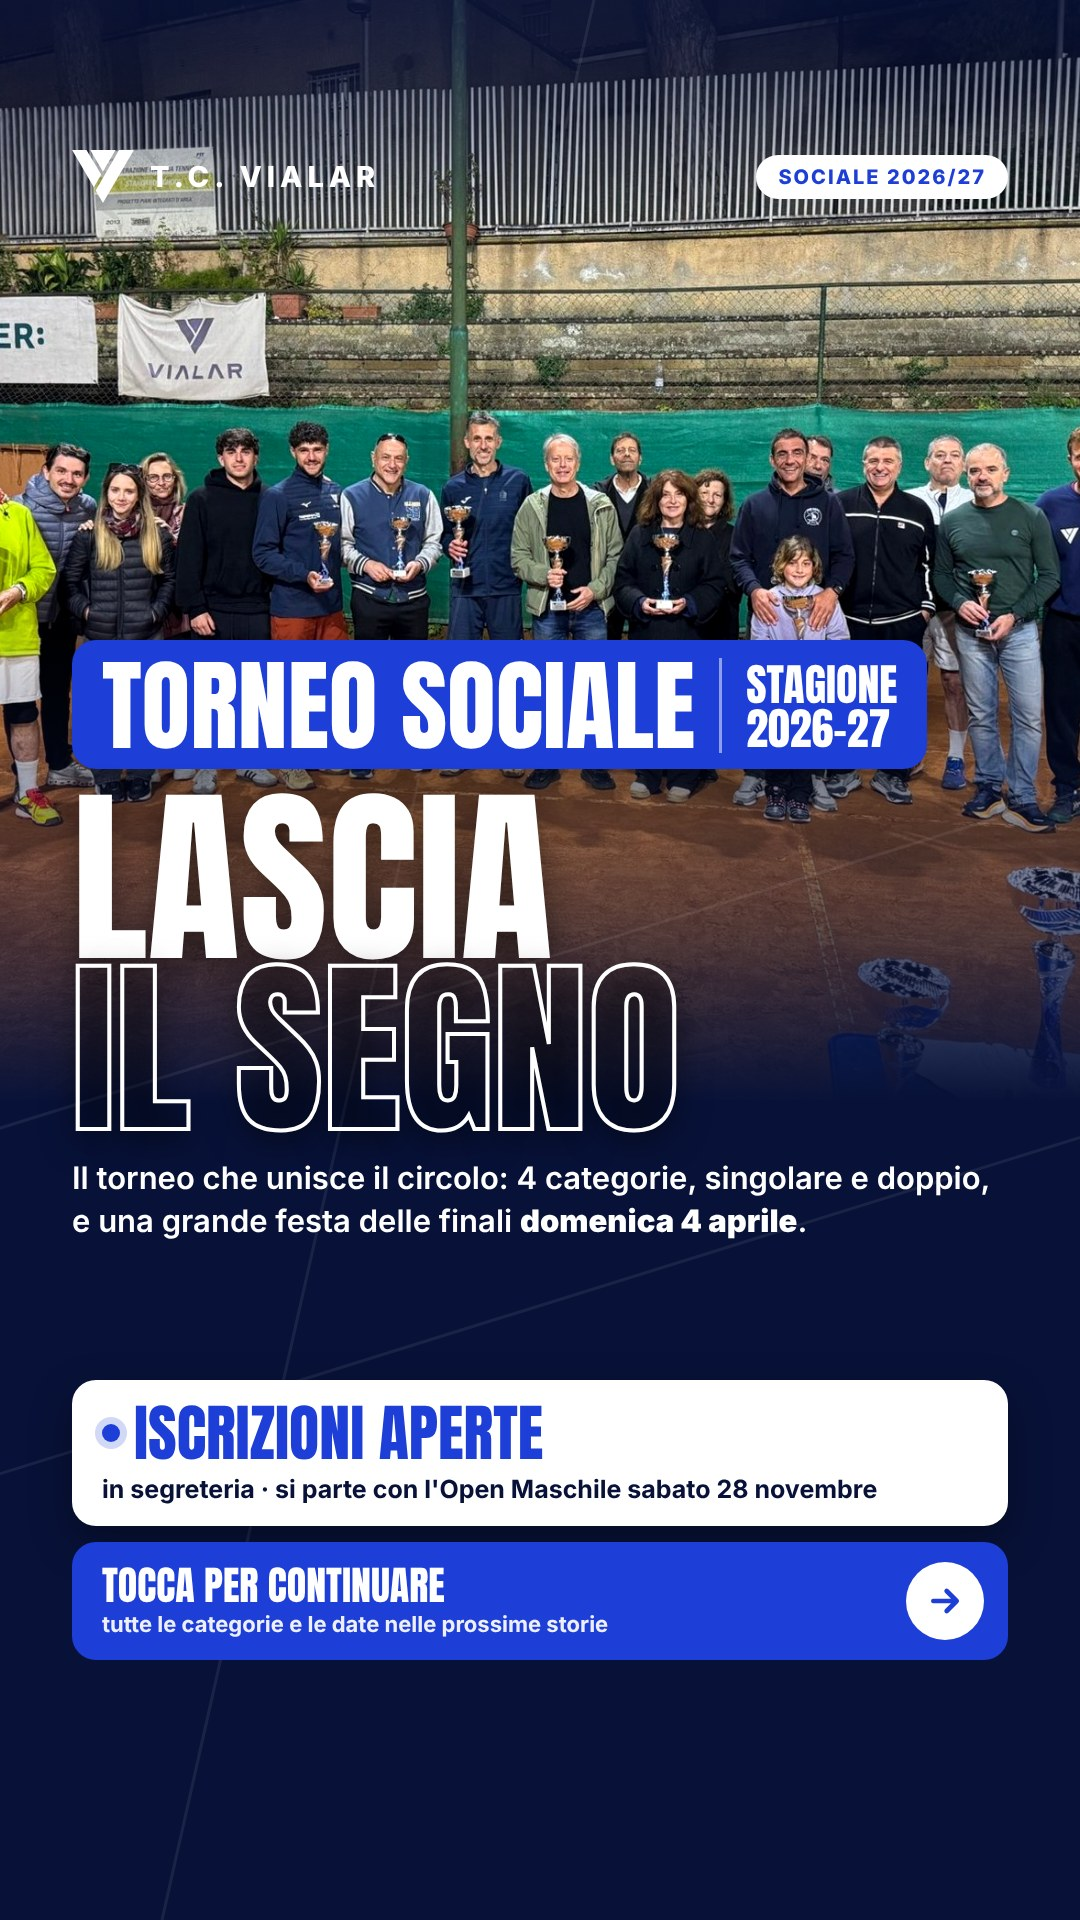
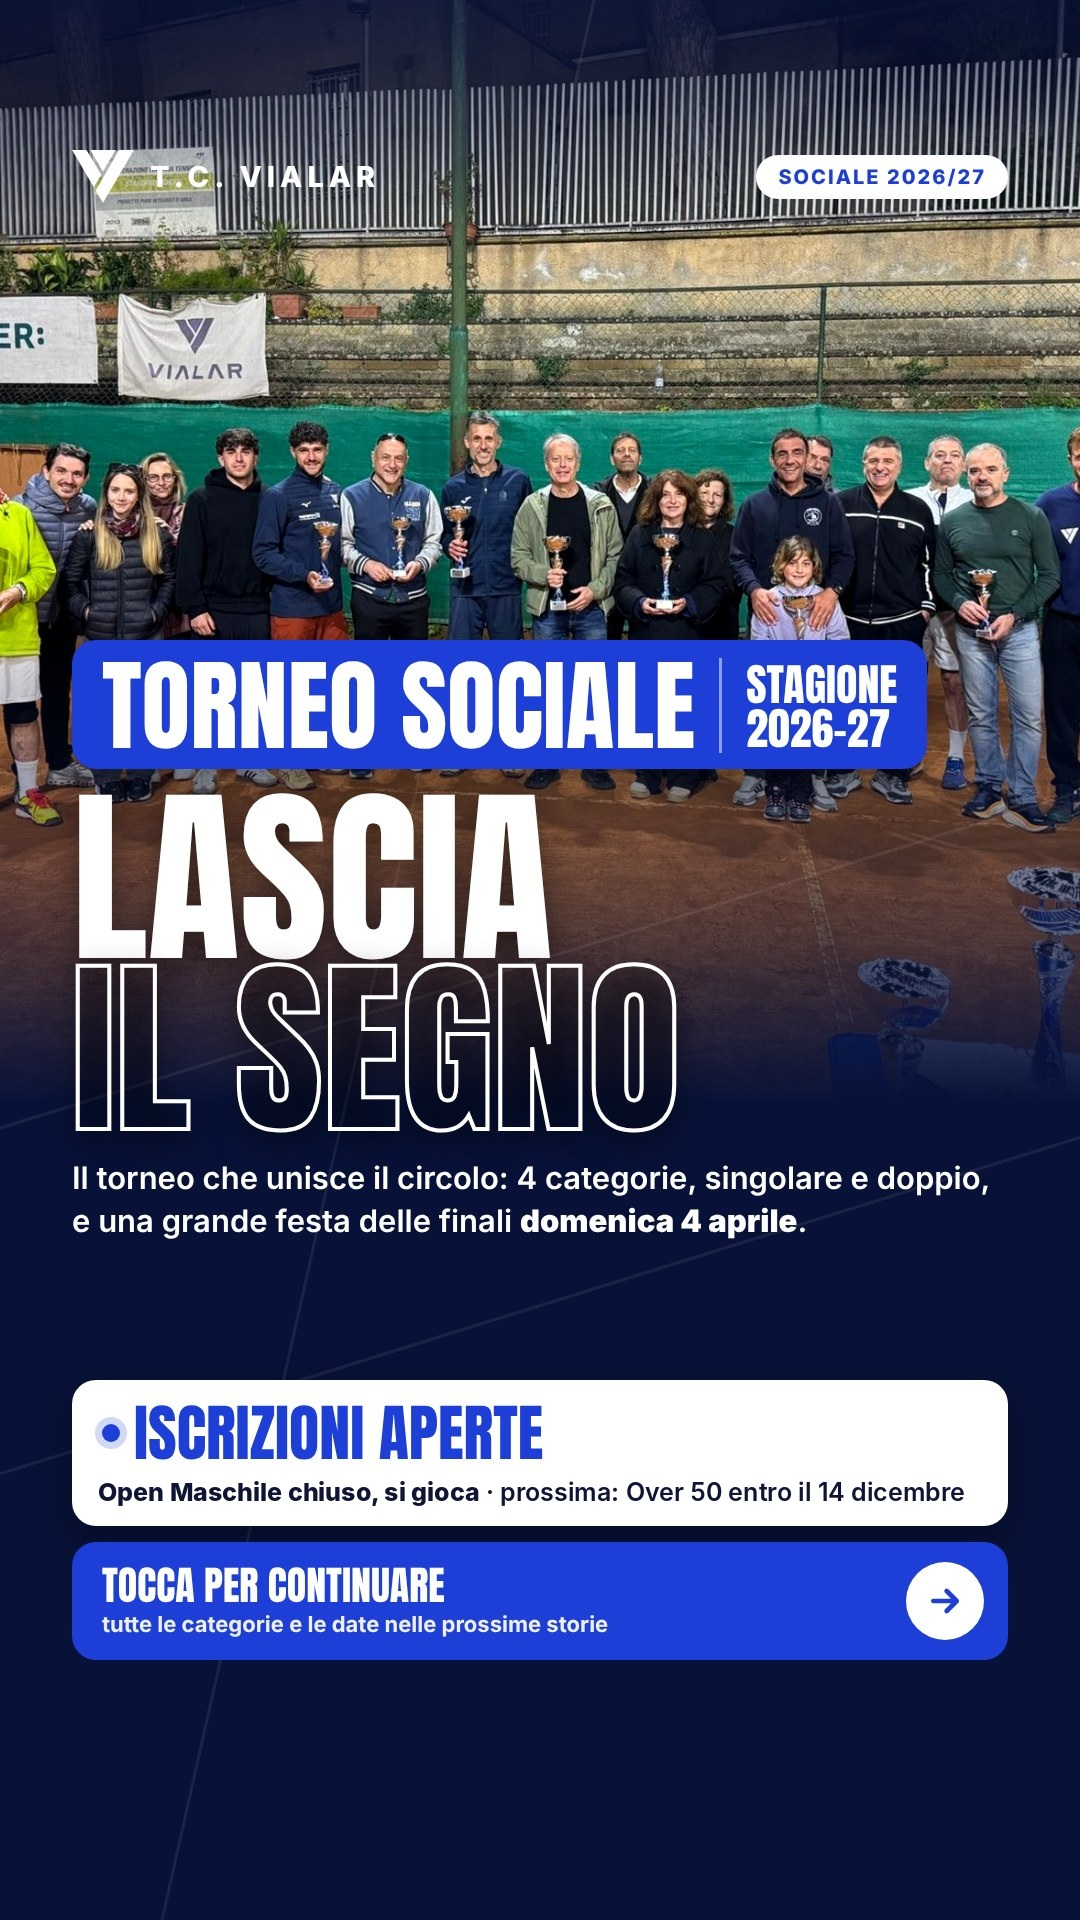
Torneo Sociale: Open Maschile iscrizioni chiuse, match al via
Claude-Session: https://claude.ai/code/session_01RiKwXfL3cXiyz9fxQWK2tk

Changed region(s): [[0.0917, 0.75, 0.8861, 0.7812]]

diff --git a/index.html b/index.html
@@ -578,6 +578,8 @@ h1 .aw > span { display: inline-block; transform: translateY(108%); }
 .soc-vuoto .t { font-family: var(--display); font-size: 70px; line-height: 1; text-transform: uppercase; }
 .soc-vuoto .d { font-size: 30px; font-weight: 600; margin-top: 16px; }
 #stage.verticale .soc-nomi { grid-template-columns: 1fr 1fr; }
+.soc-nomi.tre { grid-template-columns: 1fr 1fr 1fr; gap: 10px 12px; }
+.soc-nomi.tre .soc-item { font-size: 27px; padding: 11px 14px; border-radius: 12px; }
 /* Il video resta invisibile (si vede la foto di copertina) finché non sta davvero andando: niente riquadri neri */
 .video-slide video, .slide.videopieno video { visibility: hidden; }
 .video-slide.va video, .slide.videopieno.va video { visibility: visible; }
@@ -641,12 +643,17 @@ const BACHECA = {
   /* Striscia avvisi in basso: compare solo se qui c'è almeno un avviso, es. "Circolo chiuso il 25 dicembre".
      Per farlo sparire da solo: { testo: "...", finoAl: "AAAA-MM-GG" } (resta visibile fino a quel giorno compreso) */
   avvisi: [
+    { testo: "Torneo Sociale · Open Maschile: iscrizioni chiuse! 29 iscritti, i match iniziano questa settimana. La segreteria vi contatta sul gruppo WhatsApp del tabellone. In bocca al lupo a tutti!", finoAl: "2026-11-29" },
     { testo: "Scuola Adulti · II trimestre: il rinnovo è automatico. Chi non vuole rinnovare lo comunica in segreteria entro lunedì 23 novembre, pagamento entro venerdì 27 novembre. Pausa natalizia dal 24 dicembre al 4 gennaio", finoAl: "2026-11-27" },
     { testo: "Sabato 21 novembre ore 11:00 · Body Flow: open day gratuito di pilates, ingresso libero per tutti e tutte", finoAl: "2026-11-21" },
     { testo: "Sabato 21 novembre 8:00-14:00 · Move better, play better: valutazione fisioterapica gratuita di 30 minuti, sono rimasti solo 4 posti! Prenota in segreteria", finoAl: "2026-11-21" }
   ],
   /* Torneo Sociale in primo piano: queste categorie girano molto più spesso (iscritti + info), fino al giorno indicato compreso */
   socialeFocus: { categorie: ["Open Maschile", "Over 50 Maschile"], finoAl: "2026-11-23" },
+  /* Categorie con iscrizioni chiuse in anticipo rispetto al calendario */
+  socialeChiuse: ["Open Maschile"],
+  /* Tabellone al via: slide con gli iscritti e "si gioca", fino al giorno indicato compreso */
+  socialeAlVia: [{ categoria: "Open Maschile", finoAl: "2026-11-29" }],
   // Domenica del torneo: dalle 10:45 alle 15:30 la bacheca mostra soprattutto le info live per i partecipanti
   modalitaTorneo: { data: "2026-11-15", dalle: "10:00", alle: "23:59" },
   /* Calendario della stagione: stato "fatto" oppure "da fare". Solo il mese, perché le date possono cambiare. */
@@ -1618,7 +1625,7 @@ let SOCIALE = null;
 async function caricaSociale() {
   try { const r = await fetch("live/sociale.json?t=" + Date.now(), { cache: "no-store" }); if (r.ok) SOCIALE = await r.json(); } catch (e) {}
 }
-function socScadenza(c) { return new Date(c.chiusura + "T23:59:59+01:00").getTime(); }
+function socScadenza(c) { if ((BACHECA.socialeChiuse || []).includes(c.nome)) return 0; return new Date(c.chiusura + "T23:59:59+01:00").getTime(); }
 function socDataBreve(iso) { return new Date(iso + "T12:00:00").toLocaleDateString("it-IT", { weekday: "short", day: "numeric", month: "short" }); }
 function socAperte() {
   if (!SOCIALE || !SOCIALE.categorie) return [];
@@ -1714,8 +1721,29 @@ function renderSocialeFocus(c) {
   slide.append(left, right); slide.dataset.durata = 18;
   return slide;
 }
+// Tabellone al via: iscrizioni chiuse, elenco iscritti e "si gioca"
+function renderSocialeAlVia(c) {
+  const slide = el("section", "slide soc-slide");
+  const left = el("div");
+  left.append(el("div", "kicker", "Torneo Sociale · tabellone al via"), el("h1", null, c.nome));
+  const n = (c.iscritti || []).length;
+  const p = el("div", "soc-prossima"); p.innerHTML = `Iscrizioni chiuse · <b>${n}</b> ${n === 1 ? "iscritto" : "iscritti"}<br>I match iniziano questa settimana`;
+  const lead = el("div", "lead-row"); lead.append(el("p", "lead", "Gli incontri arrivano sul gruppo WhatsApp del tabellone. In bocca al lupo!"));
+  left.append(p, lead);
+  const right = el("div", "soc-nomi" + (n > 22 ? " tre" : ""));
+  (c.iscritti || []).slice(0, 36).forEach(x => right.append(el("div", "soc-item", x)));
+  if (n > 36) right.append(el("div", "soc-item", "+ altri " + (n - 36)));
+  slide.append(left, right); slide.dataset.durata = 16;
+  return slide;
+}
+function socAlVia() {
+  if (!SOCIALE || !SOCIALE.categorie) return [];
+  const oggi = new Date().toLocaleDateString("sv-SE", { timeZone: "Europe/Rome" });
+  return (BACHECA.socialeAlVia || []).filter(a => !a.finoAl || oggi <= a.finoAl)
+    .map(a => SOCIALE.categorie.find(c => c.nome === a.categoria)).filter(Boolean);
+}
 function renderSocialeSlides() {
-  const out = []; const cd = renderSocialeCountdown(); if (!cd) return out;
+  const out = socAlVia().map(renderSocialeAlVia); const cd = renderSocialeCountdown(); if (!cd) return out;
   out.push(cd);
   const foc = socFocus();
   if (!foc.length) socAperte().slice(0, 2).forEach(c => out.push(renderSocialeIscritti(c)));
